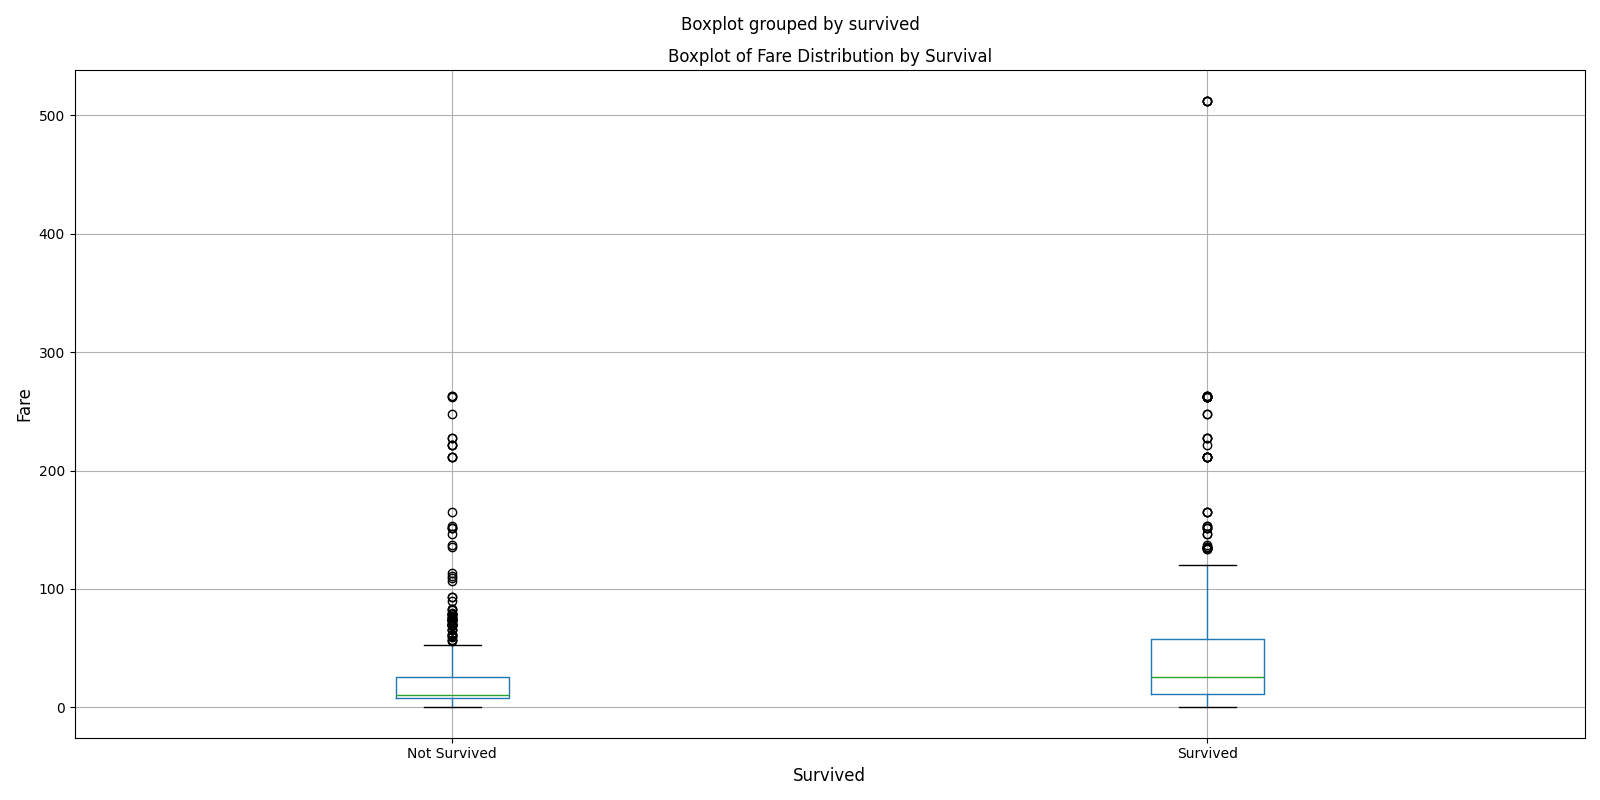
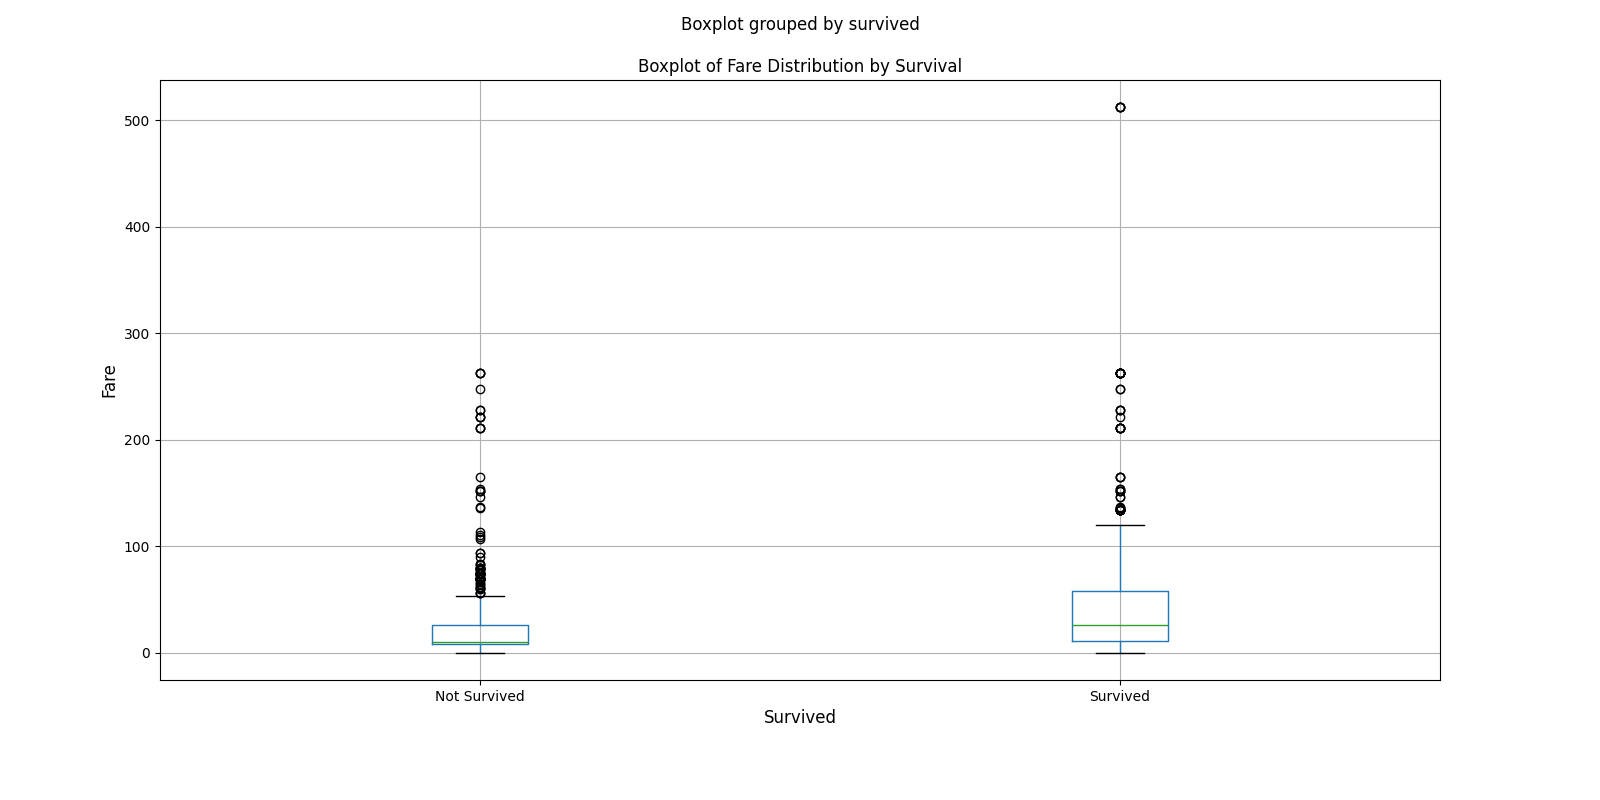
add scatter plot

diff --git a/scripts/data_visualizer.py b/scripts/data_visualizer.py
@@ -19,7 +19,6 @@ def show_survival_by_gender():
     plt.ylabel('Survived')
     plt.title('Survival by Gender')
     plt.xticks(rotation=45)
-    plt.tight_layout()
     plt.savefig(os.path.join(SAVE_DIR, 'clustered_bar_plot.png'))
     plt.show()
 
@@ -31,7 +30,6 @@ def show_age_distribution_by_survival():
     plt.ylabel('Frequency')
     plt.title('Histogram of Scores. Age Distribution by Survival')
     plt.legend()
-    plt.tight_layout()
     plt.savefig(os.path.join(SAVE_DIR, 'categorized_histogram_quant_qual.png'))
     plt.show()
 
@@ -43,7 +41,6 @@ def show_boxplot_fare_by_survival():
     plt.title('Boxplot of Fare Distribution by Survival', fontsize=12)
     plt.xticks(ticks=[1, 2], labels=['Not Survived', 'Survived'])
     plt.tick_params(axis='both', which='major', labelsize=10)
-    plt.tight_layout()
     plt.savefig(os.path.join(SAVE_DIR, 'categorized_boxplot_fare.png'))
     plt.show()
 
@@ -55,14 +52,28 @@ def show_boxplot_age_by_survival():
     plt.title('Boxplot of Fare Distribution by Survival', fontsize=12)
     plt.xticks(ticks=[1, 2], labels=['Not Survived', 'Survived'])
     plt.tick_params(axis='both', which='major', labelsize=10)
-    plt.tight_layout()
     plt.savefig(os.path.join(SAVE_DIR, 'categorized_boxplot_age.png'))
     plt.show()
 
 
+def show_scatter_fare_age():
+    plt.figure(figsize=(16, 8))
+    colors = pd.factorize(data['survived'])[0]
+    plt.scatter(data['fare'], data['age'], c=colors, cmap='viridis', alpha=0.6)
+    plt.xlabel('Fare')
+    plt.ylabel('Age')
+    plt.title('Categorized Scatterplot: Fare vs Age by Survived')
+    plt.colorbar(label='Survived')
+    plt.savefig(os.path.join(SAVE_DIR, 'scatterplot_fare_age_survived'))
+    plt.show()
+
+
 if __name__ == '__main__':
+    """
     show_survival_by_gender()
     show_age_distribution_by_survival()
     show_boxplot_fare_by_survival()
     show_boxplot_age_by_survival()
+    """
+    show_scatter_fare_age()
 
